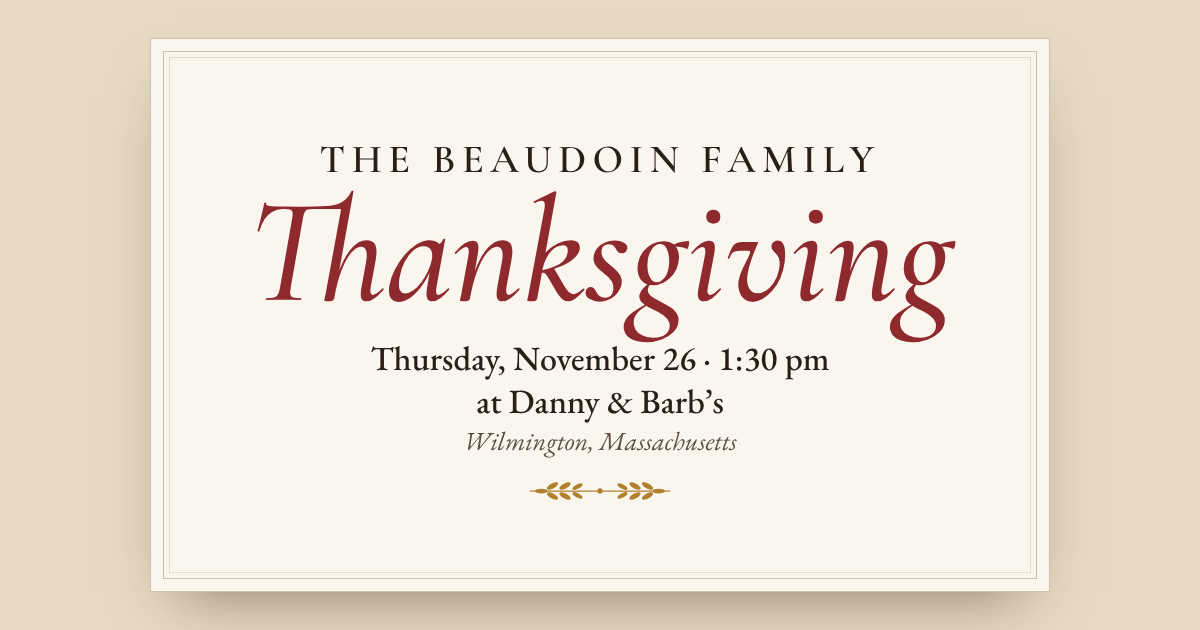
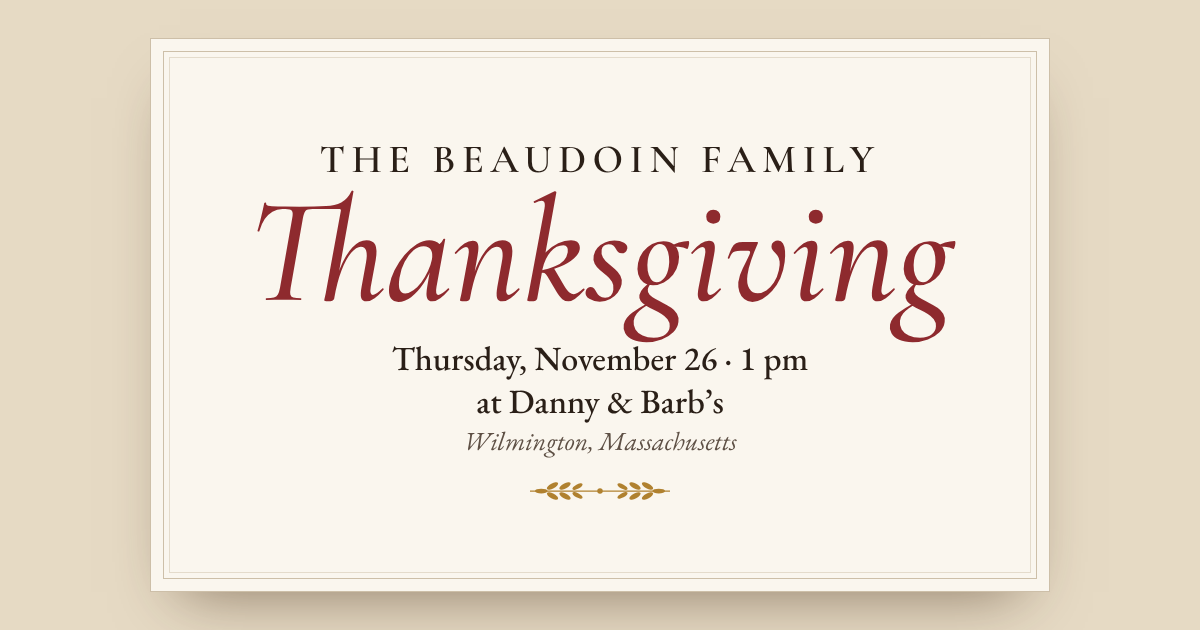
Arrival is 1 pm
Claude-Session: https://claude.ai/code/session_01P6STWgUqoMKqdwMmQGt94B

Changed region(s): [[0.3083, 0.5429, 0.7092, 0.6032]]

diff --git a/index.html b/index.html
@@ -9,13 +9,13 @@
 <meta name="color-scheme" content="light">
 <meta property="og:type" content="website">
 <meta property="og:site_name" content="Beaudoin Thanksgiving">
-<meta property="og:title" content="Beaudoin Family Thanksgiving · Thursday 11/26 at 1:30">
+<meta property="og:title" content="Beaudoin Family Thanksgiving · Thursday 11/26 at 1 pm">
 <meta property="og:description" content="At Danny &amp; Barb's in Wilmington. Claim a dish, RSVP your crew, and see what everyone's bringing.">
 <meta property="og:url" content="https://jacobforcier.github.io/Beaudoin-Thanksgiving/">
 <meta property="og:image" content="https://jacobforcier.github.io/Beaudoin-Thanksgiving/og.png">
 <meta property="og:image:width" content="1200">
 <meta property="og:image:height" content="630">
-<meta property="og:image:alt" content="Beaudoin Family Thanksgiving: Thursday 11/26 at 1:30, Danny &amp; Barb's, Wilmington MA">
+<meta property="og:image:alt" content="Beaudoin Family Thanksgiving: Thursday 11/26 at 1 pm, Danny &amp; Barb's, Wilmington MA">
 <meta name="twitter:card" content="summary_large_image">
 <link rel="apple-touch-icon" href="apple-touch-icon.png">
 <link rel="icon" href="apple-touch-icon.png" type="image/png">
@@ -46,7 +46,7 @@
   <div class="invite">
     <p class="eyebrow">The Beaudoin Family</p>
     <h1 id="title">Thanksgiving</h1>
-    <p class="when"><span class="nw">Thursday, November 26, 1:30 pm</span> <span class="sep">·</span> <span class="nw">at Danny &amp; Barb’s</span></p>
+    <p class="when"><span class="nw">Thursday, November 26, 1 pm</span> <span class="sep">·</span> <span class="nw">at Danny &amp; Barb’s</span></p>
     <p class="where">1 Leonard Lane, Wilmington</p>
     <p class="links"><button type="button" id="calBtn" class="link">Add to calendar</button><span class="sep">·</span><a id="directions" class="link" target="_blank" rel="noopener">Directions</a></p>
     <p class="countdown" id="countdown"></p>
@@ -132,8 +132,8 @@
 <div id="toast" class="toast" role="status" aria-live="polite"></div>
 <div id="fullhouse" class="fullhouse" role="status"><b>The table is set.</b><span>Every side and dessert is covered. Merci, everyone.</span></div>
 
-<script src="config.js?v=32"></script>
+<script src="config.js?v=34"></script>
 <script src="live.js?v=23"></script>
-<script src="app.js?v=33"></script>
+<script src="app.js?v=34"></script>
 </body>
 </html>

diff --git a/app.js b/app.js
@@ -418,7 +418,7 @@ $('tBody').addEventListener('input', grow);
 let hereNow = 0; // other people on the page right now (live presence)
 function renderDate() {
   const n = daysUntil();
-  $('countdown').textContent = (n === 0 ? (Date.now() < ARRIVE ? 'Happy Thanksgiving · see you at 1:30' : 'Happy Thanksgiving')
+  $('countdown').textContent = (n === 0 ? (Date.now() < ARRIVE ? 'Happy Thanksgiving · see you at 1' : 'Happy Thanksgiving')
     : n < 0 ? 'Thank you for a wonderful Thanksgiving'
     : n === 1 ? 'Tomorrow' : `${word(n)} days to go`)
     + (hereNow > 0 ? ` · ${word(hereNow)} ${hereNow === 1 ? 'other' : 'others'} here now` : '');
@@ -436,14 +436,14 @@ $('directions').href = isApple
   : `https://www.google.com/maps/dir/?api=1&destination=${encodeURIComponent(ADDRESS)}`;
 const GCAL = 'https://calendar.google.com/calendar/render?action=TEMPLATE'
   + '&text=' + encodeURIComponent('Beaudoin Family Thanksgiving')
-  + '&dates=20261126T183000Z/20261127T000000Z'
+  + '&dates=20261126T180000Z/20261127T000000Z'
   + '&location=' + encodeURIComponent(ADDRESS)
-  + '&details=' + encodeURIComponent('Thanksgiving at Danny & Barb’s. Arrive at 1:30.\nSign-ups: ' + location.origin + location.pathname);
+  + '&details=' + encodeURIComponent('Thanksgiving at Danny & Barb’s. Arrive at 1 pm.\nSign-ups: ' + location.origin + location.pathname);
 $('calBtn').addEventListener('click', () => {
   const apple = `<a class="btn ${isApple ? '' : 'ghost'}" href="thanksgiving.ics">Apple or Outlook calendar</a>`;
   const google = `<a class="btn ${isApple ? 'ghost' : ''}" href="${GCAL}" target="_blank" rel="noopener">Google Calendar</a>`;
   openDialog('Add to your calendar',
-    `<p class="dlg-note">Thursday, November 26, 1:30 pm at Danny & Barb’s, 1 Leonard Lane, Wilmington. Includes a reminder the day before.</p>
+    `<p class="dlg-note">Thursday, November 26, 1 pm at Danny & Barb’s, 1 Leonard Lane, Wilmington. Includes a reminder the day before.</p>
      <div class="cal-opts">${isApple ? apple + google : google + apple}</div>`,
     [{ label: 'Close', value: null, cls: 'ghost' }]);
   $('dlgBody').querySelectorAll('a').forEach((a) => a.addEventListener('click', () => setTimeout(() => dlg.close(), 300)));

diff --git a/tv.js b/tv.js
@@ -38,7 +38,7 @@ function slides() {
   const { dishes, signups, rsvps, thanks } = data, out = [];
   const days = etToday();
   out.push({ kind: 'title', html: `<p class="eyebrow">The Beaudoin Family</p><hr class="rule"><h1>Thanksgiving</h1>
-    <p class="big">${days === 0 ? 'Happy Thanksgiving' : 'Thursday, November 26, 1:30 pm'} · at Danny &amp; Barb’s</p>
+    <p class="big">${days === 0 ? 'Happy Thanksgiving' : 'Thursday, November 26, 1 pm'} · at Danny &amp; Barb’s</p>
     <p class="soft">${days > 1 ? `${cap(spell(days))} days to go` : days === 1 ? 'Tomorrow' : 'So glad you’re here'}</p>` });
   const n = rsvps.reduce((s, r) => s + r.adults + r.kids, 0);
   if (rsvps.length) out.push({ kind: 'guests', html: `<p class="kicker">Around the table</p><h2>${cap(spell(n))} at the table</h2>

diff --git a/config.js b/config.js
@@ -2,7 +2,7 @@
 const SB_URL = 'https://jkgsytjstauxstiabhwz.supabase.co';
 const SB_KEY = 'eyJhbGciOiJIUzI1NiIsInR5cCI6IkpXVCJ9.eyJpc3MiOiJzdXBhYmFzZSIsInJlZiI6ImprZ3N5dGpzdGF1eHN0aWFiaHd6Iiwicm9sZSI6ImFub24iLCJpYXQiOjE3OTA2MDI2ODAsImV4cCI6MjEwNjE3ODY4MH0.M8OzkHtXxaqGddAfmN26F2it1P-kIgttIUXWBHzgi1g';
 const ADDRESS = '1 Leonard Lane, Wilmington, MA 01887';
-const ARRIVE = Date.UTC(2026, 10, 26, 18, 30); // 1:30 pm Eastern
+const ARRIVE = Date.UTC(2026, 10, 26, 18, 0); // 1 pm Eastern
 const LAT = 42.5465, LON = -71.1737;
 const DAY = { y: 2026, m: 11, d: 26 }; // Thanksgiving, Eastern time
 

diff --git a/tv.html b/tv.html
@@ -29,9 +29,9 @@
   <b>Tap to begin</b>
   <span class="hint">Goes full screen and keeps the screen awake. Arrow keys or a tap move between slides.</span>
 </button>
-<script src="config.js?v=32"></script>
+<script src="config.js?v=34"></script>
 <script src="live.js?v=23"></script>
 <script src="qrcode.js?v=1"></script>
-<script src="tv.js?v=8"></script>
+<script src="tv.js?v=9"></script>
 </body>
 </html>

diff --git a/admin.html b/admin.html
@@ -41,7 +41,7 @@
 </main>
 
 <div id="toast" class="toast" role="status" aria-live="polite"></div>
-<script src="config.js?v=32"></script>
+<script src="config.js?v=34"></script>
 <script src="live.js?v=23"></script>
 <script src="admin.js?v=2"></script>
 </body>

diff --git a/add.html b/add.html
@@ -88,7 +88,7 @@
   </div>
 </div>
 <div id="toast" class="toast" role="status" aria-live="polite"></div>
-<script src="config.js?v=32"></script>
+<script src="config.js?v=34"></script>
 <script src="add.js?v=31"></script>
 </body>
 </html>

diff --git a/README.md b/README.md
@@ -1,6 +1,6 @@
 # 🦃 Beaudoin Family Thanksgiving
 
-Sign-up site for Thanksgiving: Thursday 11/26 at 1:30 pm, Danny & Barb's, 1 Leonard Lane, Wilmington, MA.
+Sign-up site for Thanksgiving: Thursday 11/26 at 1 pm, Danny & Barb's, 1 Leonard Lane, Wilmington, MA.
 
 - Danny & Barb cover the turkey; their son Sammy makes Mémère's tourtière
 - Suggested dishes (just suggestions); anyone can sign up for a dish, double up, or add their own
